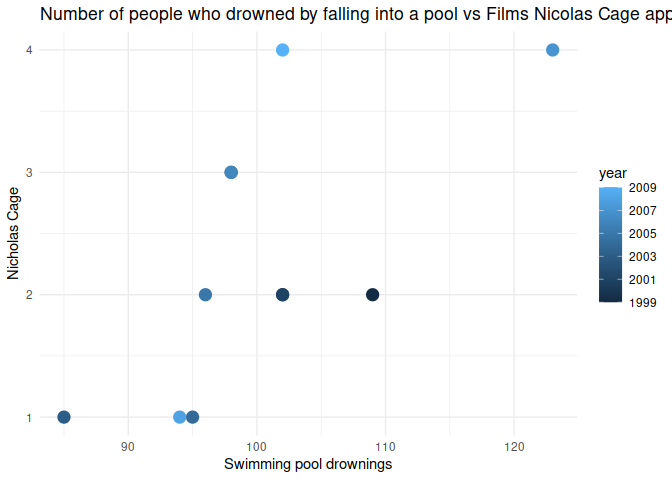
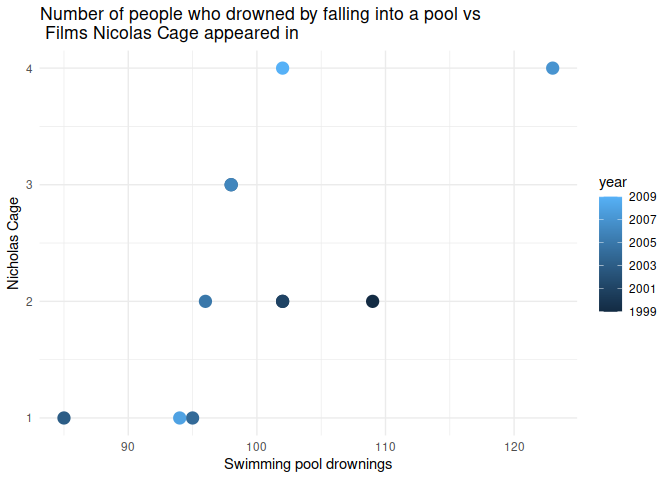
improve plots

diff --git a/README.md b/README.md
@@ -59,7 +59,7 @@ ggplot(nicholas_cage) +
   labs(
     x = unique(nicholas_cage$var1_short),
     y = unique(nicholas_cage$var2_short),
-    title = paste(unique(nicholas_cage$var1), "vs", unique(nicholas_cage$var2))
+    title = paste(unique(nicholas_cage$var1), "vs\n", unique(nicholas_cage$var2))
   )
 ```
 
@@ -104,7 +104,7 @@ ggplot(nicholas_cage_long, aes(
   theme_minimal() +
   labs(
     x = "Year",
-    title = "Nicholas Cage vs. Drownings by Falling into a Pool",
+    title = "Drownings by Falling into a Pool vs Nicholas Cage Movies",
     subtitle = "Standardized values"
   )
 ```
